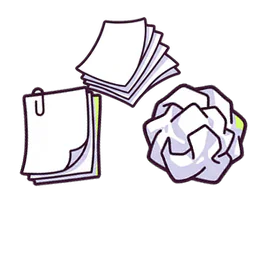
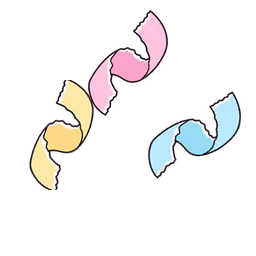
fix: paper trail and jump cosmetics as torn post-it confetti, not documents

Changed region(s): [[0.0625, 0.0312, 0.9688, 0.75], [0.3438, 0.0938, 0.4062, 0.2188]]

diff --git a/public-office/art/SOURCES.md b/public-office/art/SOURCES.md
@@ -673,3 +673,7 @@ Cleanup: the cosmetic sprites use core's catalog ids (`src/office/core/live/cosm
 `live/stamp-*` and `live/card-*` files were removed, because nothing references them; the `cosmetic/` table above says which sources
 they came from. `live/` keeps only the weekly badges (`badge-*`, 128×128), `shop-header` (1200×400) and the deco stickers (`deco-*`,
 128×128), until render confirms whether it uses them.
+
+- 2026-11-16 art-director fix (3 cr; live-events total **51.5 cr** per the job ledger): `cosmetic/trail-paper` and `cosmetic/jump-papers` read like the 서류 collectibles and paper hazards, so they were redrawn as torn pastel post-it confetti (same ids, paths and layout):
+  - `cosmetic/trail-paper.webp`: nano_banana_flash — three tiny torn scraps of pastel sticky note paper (pale peach, pale lilac, pale mint) with ragged torn white edges, irregular little confetti shapes, no lines, no writing, not rectangular documents.
+  - `cosmetic/jump-papers.webp`: nano_banana_flash — three small curly torn strips of pastel sticky note paper (pale yellow, pale pink, pale sky blue) twisting like confetti ribbons with ragged torn white edges, no lines, no writing, no stacks, no clipboards.
